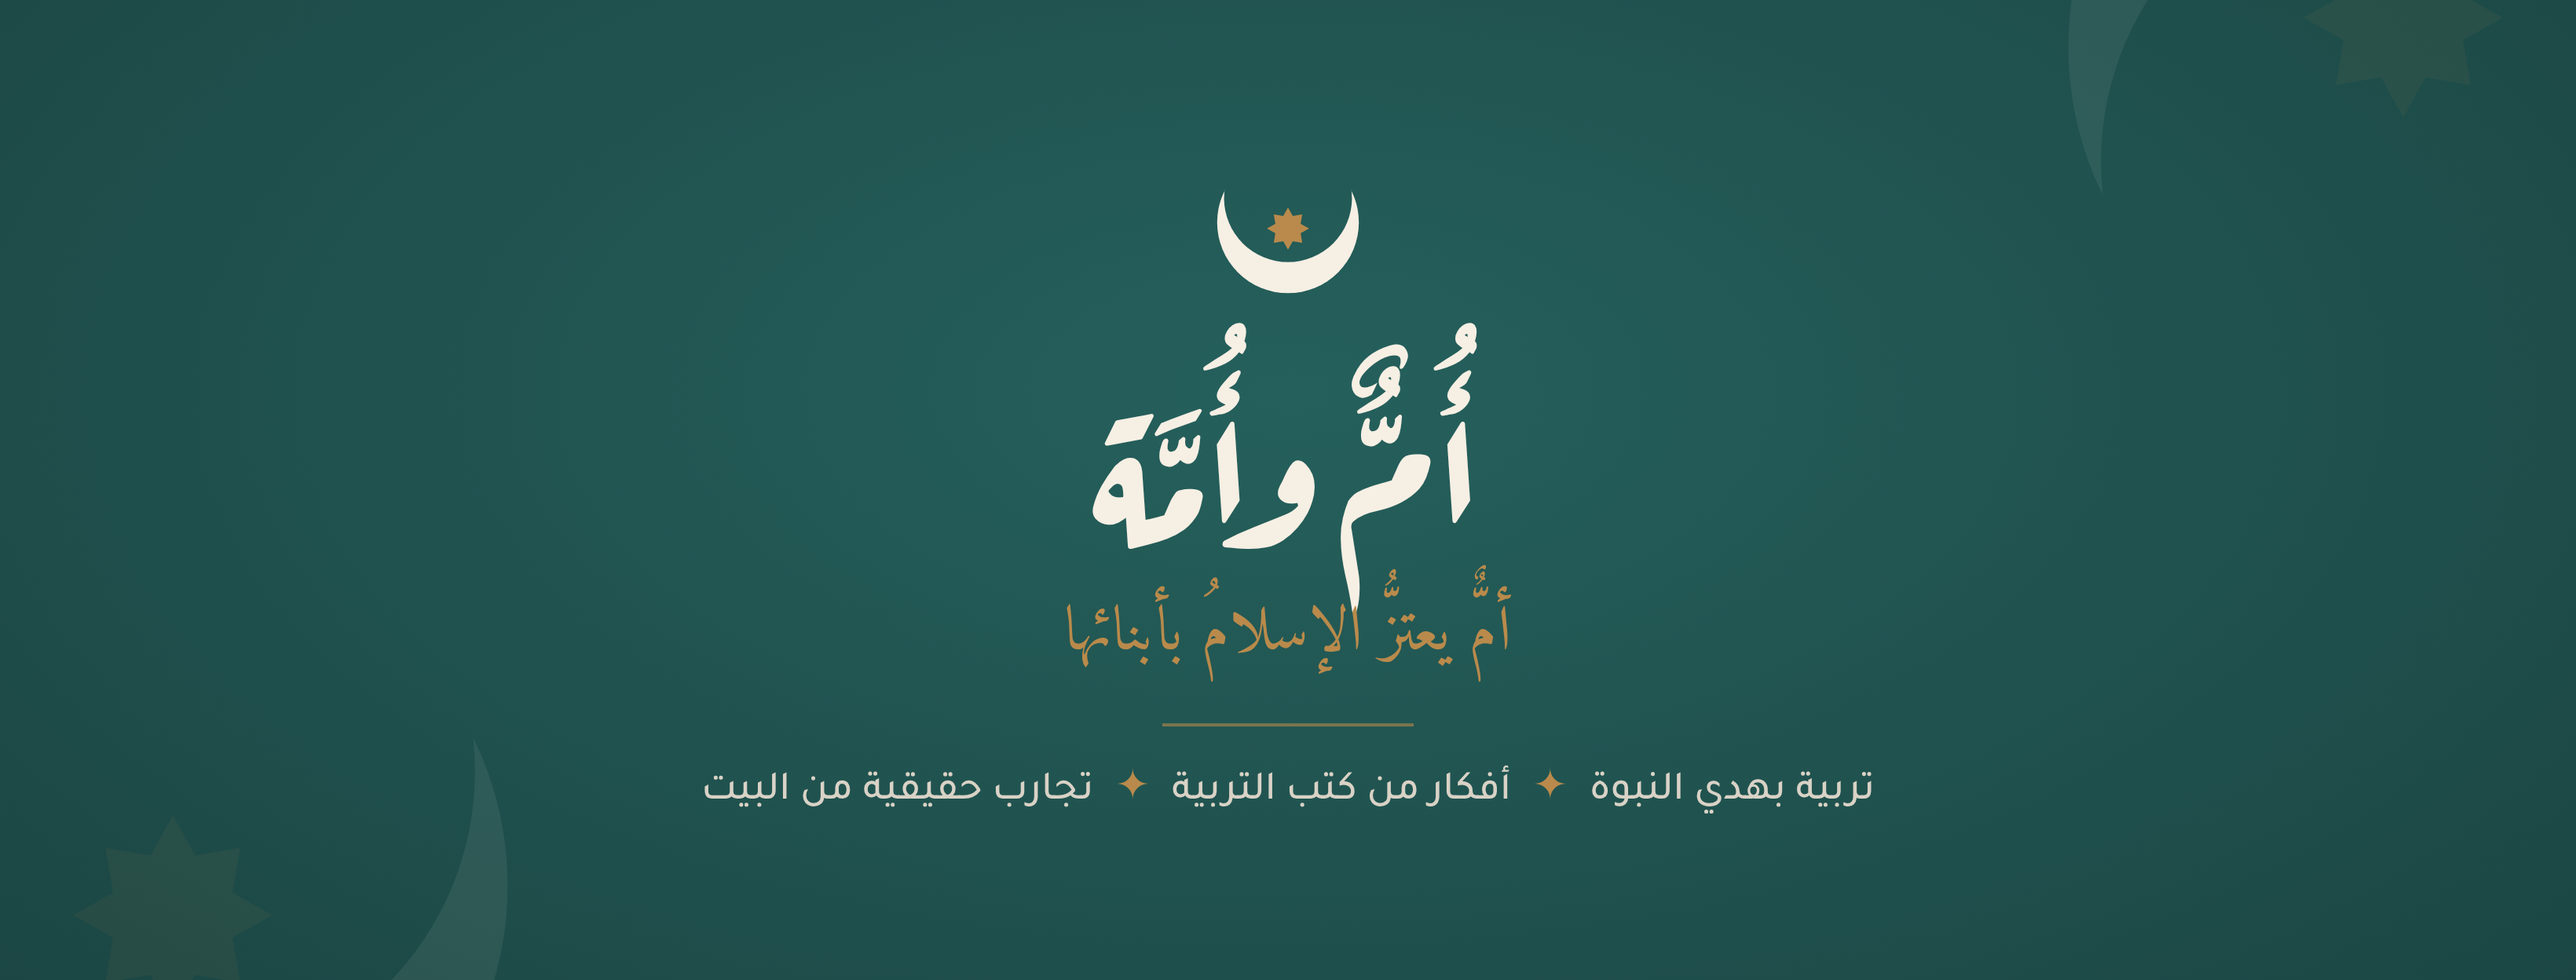
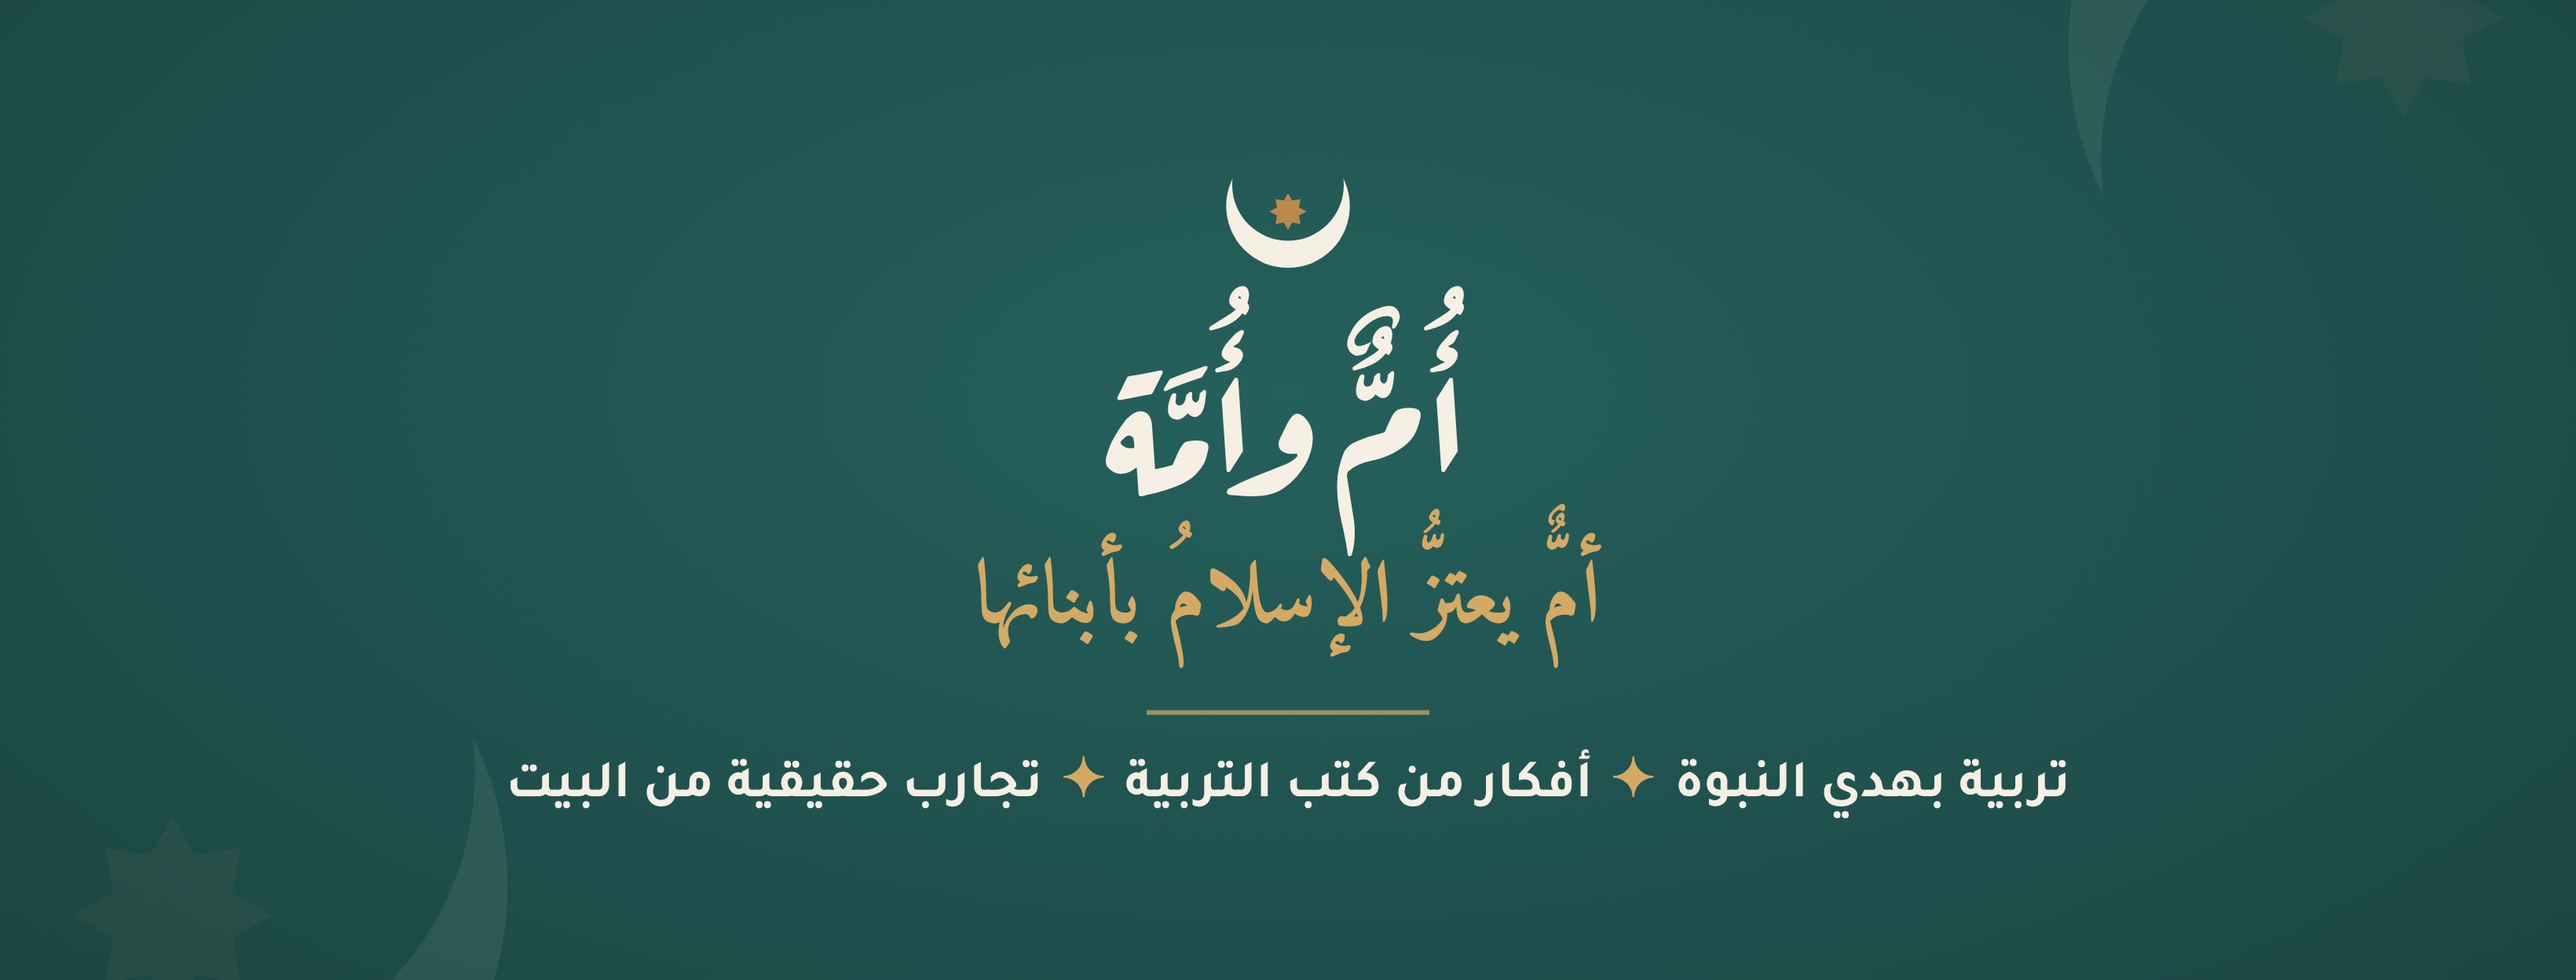
Enlarge tagline and pillars text on Facebook cover
Claude-Session: https://claude.ai/code/session_01At4XTUkCTKxbjrDgmY6y1k

diff --git a/umm-wa-umma/brand/fb-cover.html b/umm-wa-umma/brand/fb-cover.html
@@ -8,12 +8,13 @@
 .c{position:relative;width:1640px;height:624px;overflow:hidden;background:radial-gradient(90% 120% at 50% 40%,#25605C 0%,#1E4D4A 55%,#173D3B 100%);color:#F6EFE4;text-align:center;font-family:Tajawal,sans-serif}
 .deco{position:absolute;width:520px;height:520px;opacity:.07}
 .mid{position:absolute;left:50%;top:50%;transform:translate(-50%,-52%);width:900px}
-.mark{width:110px;height:110px;display:block;margin:0 auto}
-.name{font-family:"Aref Ruqaa";font-weight:700;font-size:118px;line-height:1.25;margin-top:22px}
-.tag{font-family:Amiri;font-size:40px;color:#B98A4B;margin-top:2px}
-.line{width:160px;height:2px;background:#B98A4B;opacity:.6;margin:22px auto}
-.pills{font-size:26px;font-weight:500;color:#d9d2c6;letter-spacing:.01em}
-.pills span{color:#B98A4B;margin:0 14px}
+.mid{width:1200px}
+.mark{width:96px;height:96px;display:block;margin:0 auto}
+.name{font-family:"Aref Ruqaa";font-weight:700;font-size:110px;line-height:1.2;margin-top:18px}
+.tag{font-family:Amiri;font-weight:700;font-size:56px;color:#D4A964;margin-top:4px}
+.line{width:180px;height:3px;background:#D4A964;opacity:.7;margin:20px auto}
+.pills{font-size:34px;font-weight:700;color:#F6EFE4}
+.pills span{color:#D4A964;margin:0 12px}
 </style>
 </head>
 <body>
